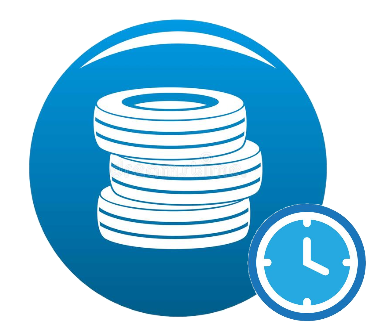
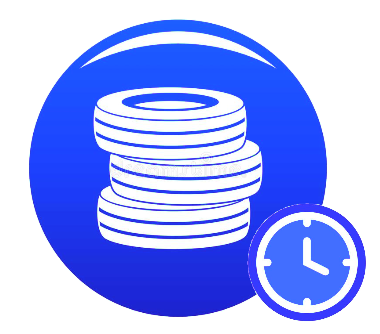
Atualizando imagensregistro de pneus def

diff --git a/SiteProjeto/paginas/registroPneuDefPesquisa.php b/SiteProjeto/paginas/registroPneuDefPesquisa.php
@@ -143,10 +143,10 @@ Equipe: Ana Schran, Gabriel Barboza, Lohan Akim e Victor Negrelli
                             echo "</td><td>";
 
                 ?>
-                        <a href='entradaPneuDef.php?id=<?php echo $cod; ?>'><img src='../imagens/caixinhaEntrada.png' title='Registrar Entrada de Pneu Defeituoso' width='32'></a>
+                        <a href='entradaPneuDef.php?id=<?php echo $cod; ?>'><img src='../imagens/aguardando.png' title='Registrar Entrada de Pneu Defeituoso' width='32'></a>
                         </td>
                         <td>
-                        <a href='recolhimentoPneuDef.php?id=<?php echo $cod; ?>'><img src='../imagens/caixinhaSaida.png' title='Registrar Recolhimento de Pneu Defeituoso' width='32'></a>
+                        <a href='recolhimentoPneuDef.php?id=<?php echo $cod; ?>'><img src='../imagens/vrum.png' title='Registrar Recolhimento de Pneu Defeituoso' width='32'></a>
                         </td>
                         </tr>
                  <?php
@@ -169,10 +169,10 @@ Equipe: Ana Schran, Gabriel Barboza, Lohan Akim e Victor Negrelli
                             echo "</td><td>";                        
                         //Adicionar, retirar ou excluir registro do produto
                 ?>
-                        <a href='entradaPneuDef.php?id=<?php echo $cod; ?>'><img src='../imagens/caixinhaEntrada.png' title='Registrar Entrada de Pneu Defeituoso' width='32'></a>
+                        <a href='entradaPneuDef.php?id=<?php echo $cod; ?>'><img src='../imagens/aguardando.png' title='Registrar Entrada de Pneu Defeituoso' width='32'></a>
                         </td>
                         <td>
-                        <a href='recolhimentoPneuDef.php?id=<?php echo $cod; ?>'><img src='../imagens/caixinhaSaida.png' title='Registrar Recolhimento de Pneu Defeituoso' width='32'></a>
+                        <a href='recolhimentoPneuDef.php?id=<?php echo $cod; ?>'><img src='../imagens/vrum.png' title='Registrar Recolhimento de Pneu Defeituoso' width='32'></a>
                         </td>
                         </tr>
                  <?php

diff --git a/SiteProjeto/paginas/registroPneuDef.php b/SiteProjeto/paginas/registroPneuDef.php
@@ -136,10 +136,10 @@ Equipe: Ana Schran, Gabriel Barboza, Lohan Akim e Victor Negrelli
 
 						//Adicionar, retirar ou excluir registro do produto
 				?>
-                        <a href='entradaPneuDef.php?id=<?php echo $cod; ?>'><img src='../imagens/caixinhaEntrada.png' title='Registrar Entrada de Pneu Defeituoso' width='32'></a>
+                        <a href='entradaPneuDef.php?id=<?php echo $cod; ?>'><img src='../imagens/aguardando.png' title='Registrar Entrada de Pneu Defeituoso' width='32'></a>
                         </td>
                         <td>
-                        <a href='recolhimentoPneuDef.php?id=<?php echo $cod; ?>'><img src='../imagens/caixinhaSaida.png' title='Registrar Recolhimento de Pneu Defeituoso' width='32'></a>
+                        <a href='recolhimentoPneuDef.php?id=<?php echo $cod; ?>'><img src='../imagens/vrum.png' title='Registrar Recolhimento de Pneu Defeituoso' width='32'></a>
                         </td>
                         </tr>
 				 <?php
